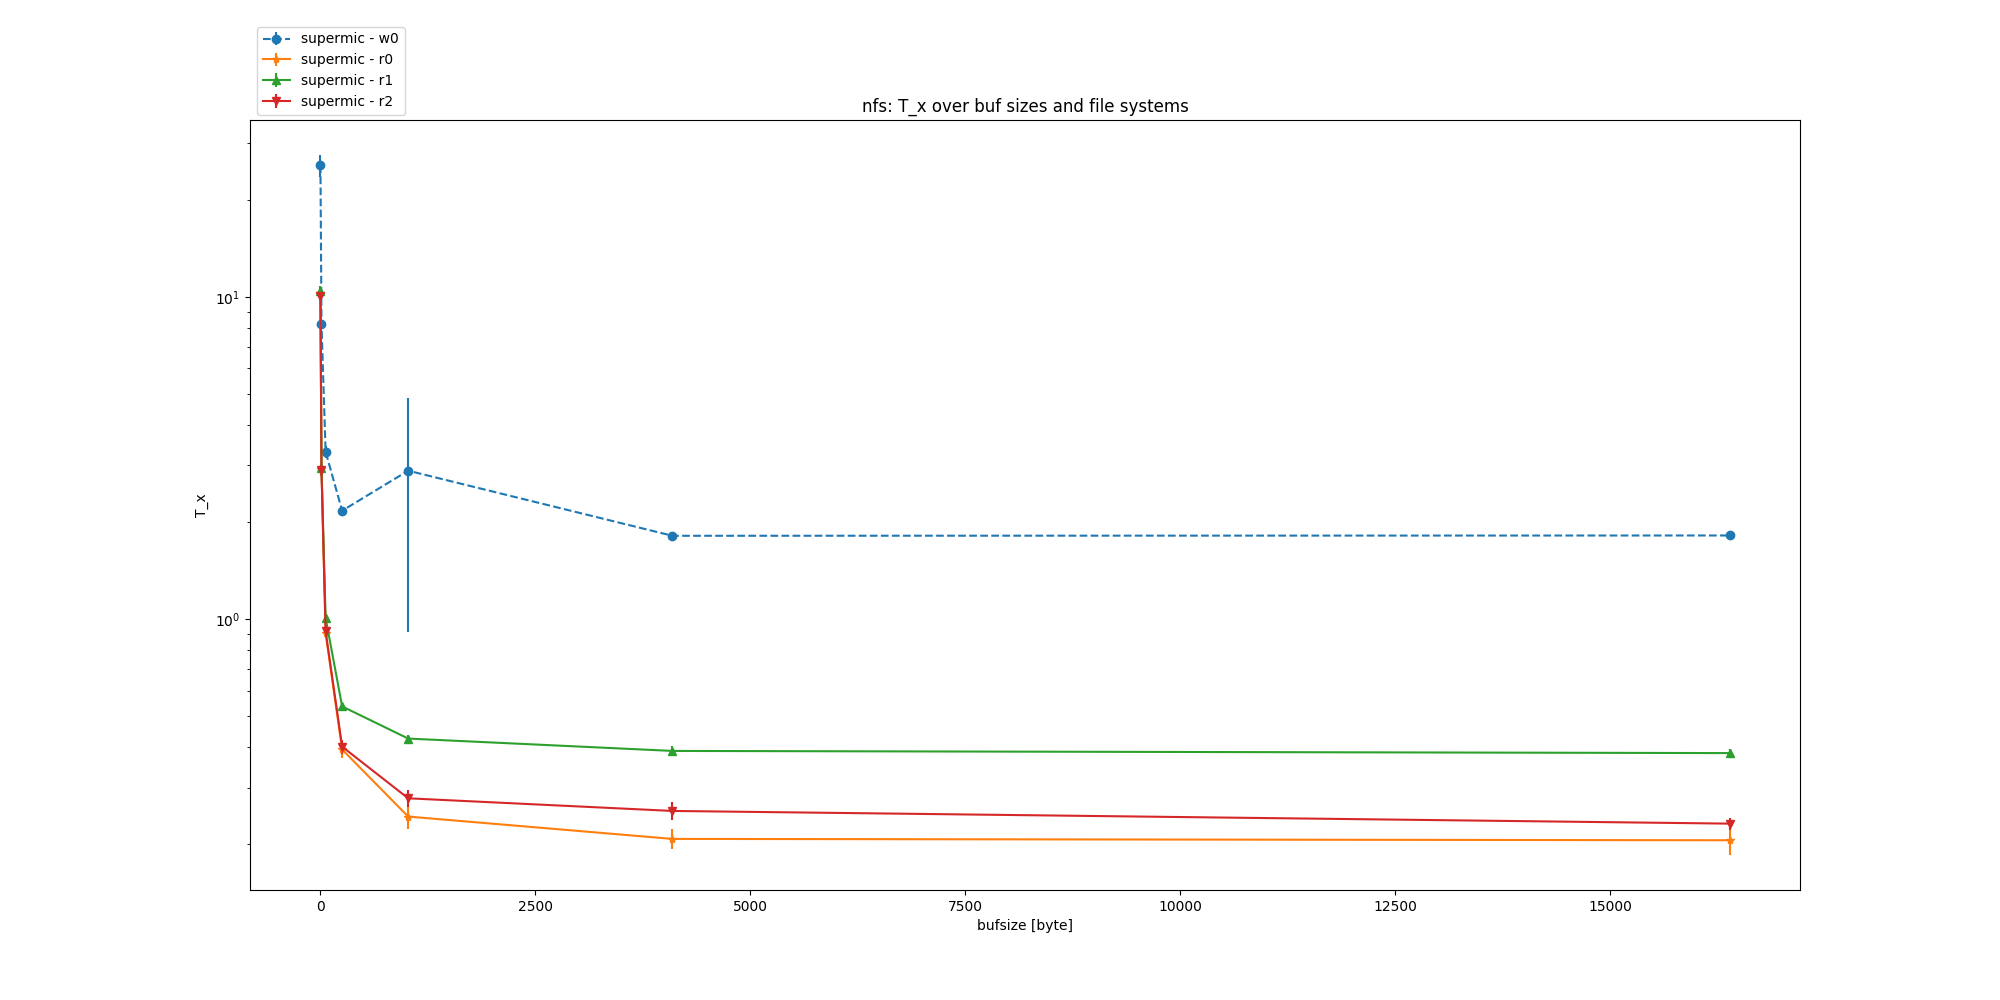
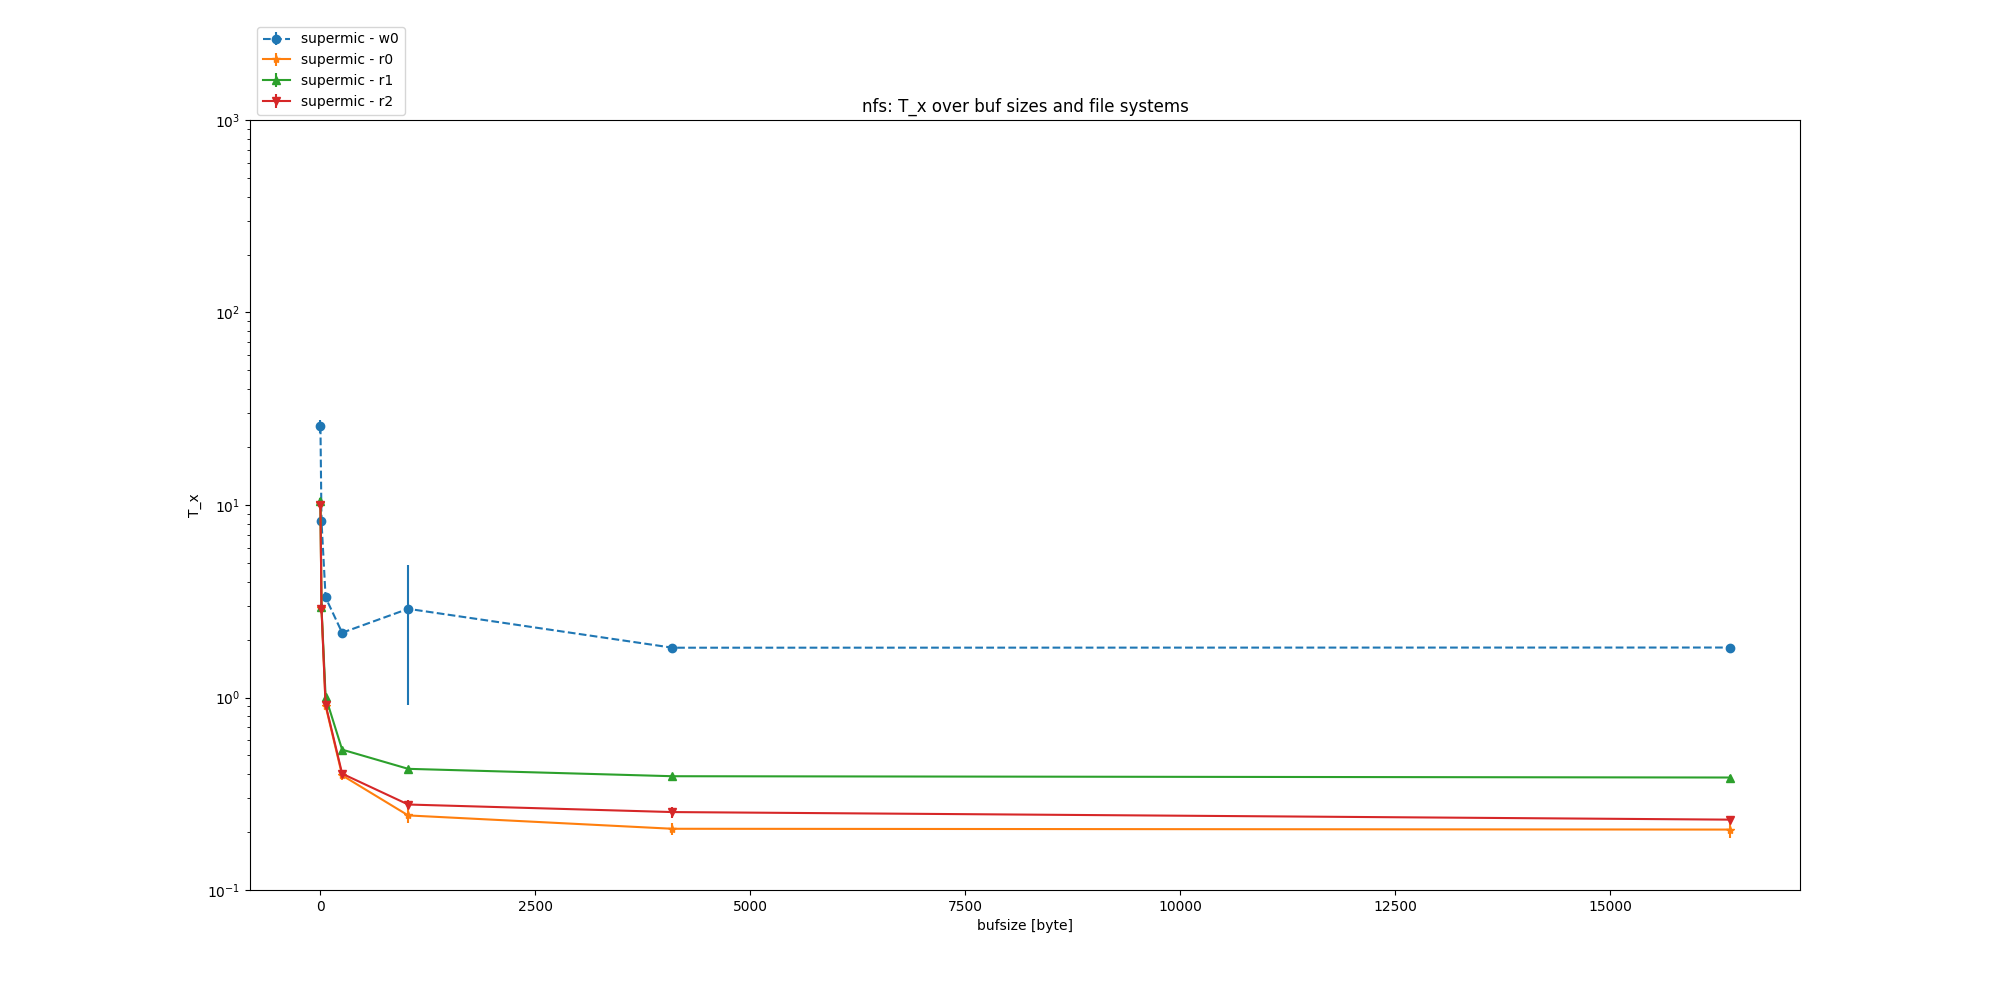
replot

diff --git a/analysis/bin/plot_io.py b/analysis/bin/plot_io.py
@@ -82,6 +82,7 @@ def main():
             plt.xlabel('bufsize [byte]')
             plt.ylabel('T_x')
             plt.yscale('log')
+            plt.ylim([0.1, 1000])
             plt.title ('%s: T_x over buf sizes and file systems' % host)
             plt.legend(labels, ncol=label_cols, loc='upper left', bbox_to_anchor=(0,1.13))
             plt.savefig('%s/figures/io_host_%s.png' % (PWD, host))
@@ -107,6 +108,7 @@ def main():
             plt.xlabel('bufsize [byte]')
             plt.ylabel('T_x')
             plt.yscale('log')
+            plt.ylim([0.1, 1000])
             plt.title ('%s: T_x over buf sizes and file systems' % fs)
             plt.legend(labels, ncol=label_cols, loc='upper left', bbox_to_anchor=(0,1.13))
             plt.savefig('%s/figures/io_fs_%s.png' % (PWD, fs))
@@ -138,6 +140,7 @@ def main():
         plt.xlabel('bufsize [byte]')
         plt.ylabel('T_x')
         plt.yscale('log')
+        plt.ylim([0.1, 1000])
         plt.title ('T_x over buf sizes and file systems')
         plt.legend(labels, ncol=5, loc='upper left', bbox_to_anchor=(0,1.13))
         plt.savefig('%s/figures/io.png' % PWD)
